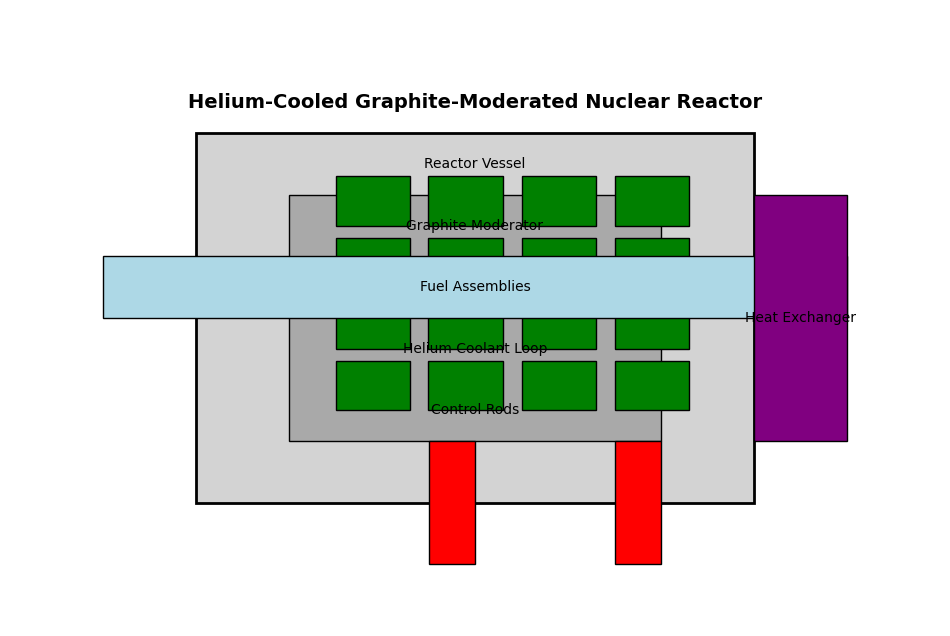
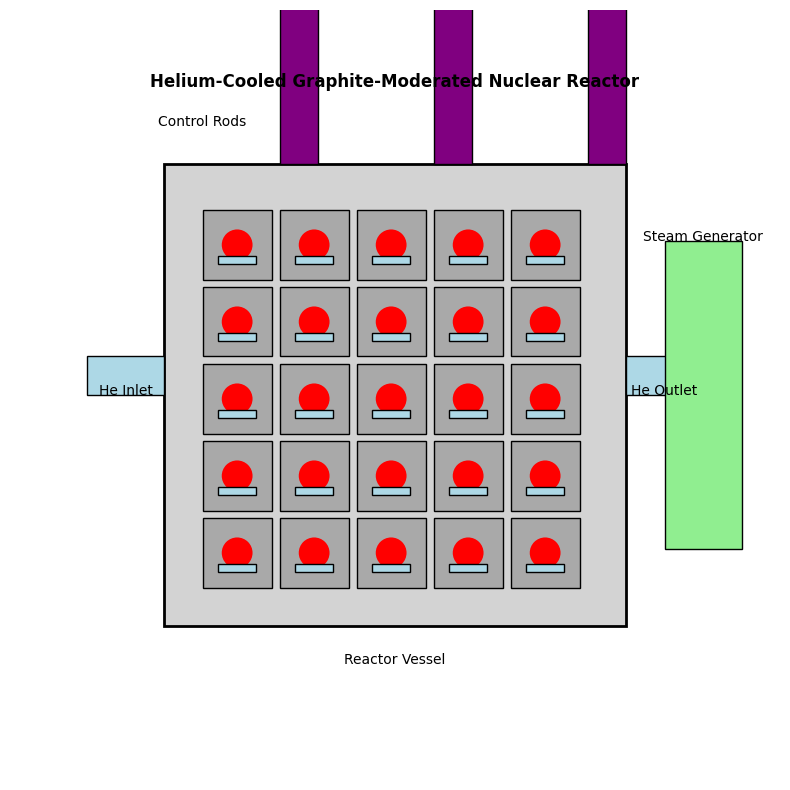
refactor: rename functions in draw agent

diff --git a/src/deepengineer/deepsearch/draw_agent.py b/src/deepengineer/deepsearch/draw_agent.py
@@ -13,9 +13,10 @@ from PIL import Image
 from smolagents import CodeAgent, LiteLLMModel
 from smolagents.agents import ActionStep
 from smolagents import tool, Tool
+from deepengineer.webcrawler.crawl_database import DataBase
 
 
-def save_fig(image_path: Path = Path("figure.png")) -> str:
+def _find_and_save_matplotlib_figure(image_path: Path = Path("figure.png")) -> str:
     """Save the current matplotlib figure to *path*.
     Save fig takes no arguments. The output path is hardcoded to "figure.png".
     """
@@ -48,7 +49,7 @@ class SaveMatplotlibFigTool(Tool):
             image_name = image_name + ".png"
         output_path = self.output_dir / image_name
         output_path.unlink(missing_ok=True)
-        save_fig(output_path)
+        _find_and_save_matplotlib_figure(output_path)
         if output_path.exists():
             return f"![]({image_name})"
         else:
@@ -58,7 +59,7 @@ class SaveMatplotlibFigTool(Tool):
 def _capture_snapshot(
     memory_step: ActionStep, agent: CodeAgent, image_path: Path = Path("figure.png")
 ) -> None:
-    save_fig(image_path)
+    _find_and_save_matplotlib_figure(image_path)
     if not plt.get_fignums():
         return
 
@@ -116,7 +117,7 @@ User instructions:
 """
 
 
-def draw_image_agent(
+def draw_matplotlib_image_from_prompt(
     prompt: str,
     image_path: str = Path("figure.png"),
     model_id: str = "mistral/mistral-medium-latest",
@@ -174,7 +175,9 @@ class DrawImageTool(Tool):
     def forward(self, prompt: str, image_name: str) -> str:
         if not image_name.endswith(".png"):
             image_name = image_name + ".png"
-        output_path = draw_image_agent(prompt, self.output_dir / image_name)
+        output_path = draw_matplotlib_image_from_prompt(
+            prompt, self.output_dir / image_name
+        )
         if output_path.exists():
             return f"![]({image_name})"
         else:

diff --git a/tests/webcrawler/test_draw_agent.py b/tests/webcrawler/test_draw_agent.py
@@ -1,6 +1,6 @@
 import pytest
 from deepengineer.deepsearch.draw_agent import (
-    draw_image_agent,
+    draw_matplotlib_image_from_prompt,
     multiple_steps_draw_image_agent,
     SaveMatplotlibFigTool,
 )
@@ -14,7 +14,9 @@ def test_draw_image_agent():
     prompt = """Propose moi un schéma très détaillé d'un réacteur nucléaire hélium graphite."""
     output_path = Path(DATA_DIR) / "figure.png"
     output_path.unlink(missing_ok=True)
-    output_path = draw_image_agent(prompt, output_path, multiple_steps=False)
+    output_path = draw_matplotlib_image_from_prompt(
+        prompt, output_path, multiple_steps=False
+    )
     assert output_path.exists()
 
 
@@ -39,9 +41,6 @@ def test_save_matplotlib_fig_tool():
               """
     )
     assert (Path(DATA_DIR) / "figure.png").exists()
-
-
-test_save_matplotlib_fig_tool()
 
 
 @pytest.mark.skip(reason="This function is not working yet")

diff --git a/src/deepengineer/deepsearch/scawl_web_agent.py b/src/deepengineer/deepsearch/scawl_web_agent.py
@@ -203,11 +203,14 @@ class FindInMarkdownTool(Tool):
         return find_in_markdown(markdown, search_queries)
 
 
-def create_web_search_agent(model_id="deepseek/deepseek-chat"):
+def create_web_search_agent(
+    model_id="deepseek/deepseek-reasoner", database: DataBase | None = None
+):
     """Create a web search agent with search, crawling, and PDF analysis capabilities."""
 
     model = LiteLLMModel(model_id=model_id)
-    database = DataBase()
+    if database is None:
+        database = DataBase()
 
     # Web search and crawling tools
     WEB_SEARCH_TOOLS = [
